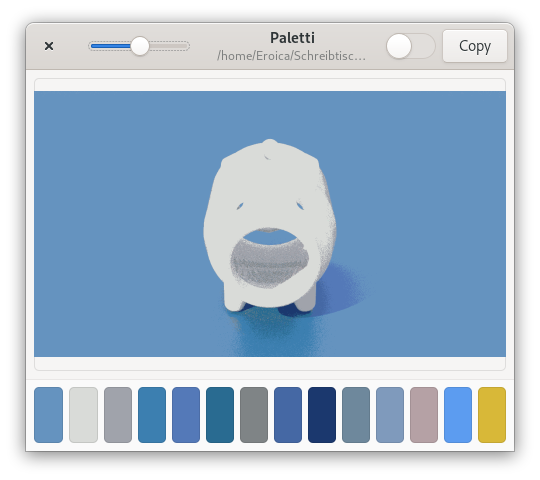
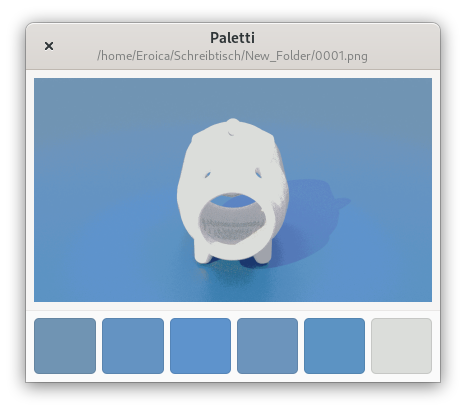
Update Paletti screenshots

diff --git a/_posts/2020-04-30-Paletti-20.md b/_posts/2020-04-30-Paletti-20.md
@@ -5,12 +5,12 @@ code: 201
 excerpt_separator: <!--more-->
 ---
 
-Paletti is now written in Vala and GTK.
+Paletti is now written in Vala and GTK because I primarily use Fedora now.
 
 The new version doesn't rely on a WebView and [color-thief](https://lokeshdhakar.com/projects/color-thief/) anymore, but uses [Leptonica](http://leptonica.org/) with Vala bindings to generate the color palette.
 
-The old JavaFX/WebView version is archived while I primarily use Fedora now. An AppImage is available from [Paletti's GitHub repository](https://github.com/Eroica/Paletti).
+An AppImage is available from [Paletti's GitHub repository](https://github.com/Eroica/Paletti). I put the old version in a separate branch.
 
-![](https://raw.githubusercontent.com/Eroica/Paletti/master/Paletti.png)
+![Screenshot of Paletti 2.0-alpha]({{ "/images/Paletti-2.0-alpha.png" | relative_url }})
 
 <!--more-->

diff --git a/_posts/2020-05-03-Paletti-20-alpha.md b/_posts/2020-05-03-Paletti-20-alpha.md
@@ -12,6 +12,6 @@ Paletti now _posterizes_ the image into as many colors as selected (currently be
 
 <span class="tag">Added</span> Use the _Copy_ button to put the posterized image into the clipboard.
 
-![Screenshot of Paletti 2.0-alpha]({{ "/images/Paletti-2.0-alpha.png" | relative_url }})
+![Screenshot of Paletti 2.0-alpha]({{ "/images/Paletti-2.0-alpha2.png" | relative_url }})
 
 <!--more-->
